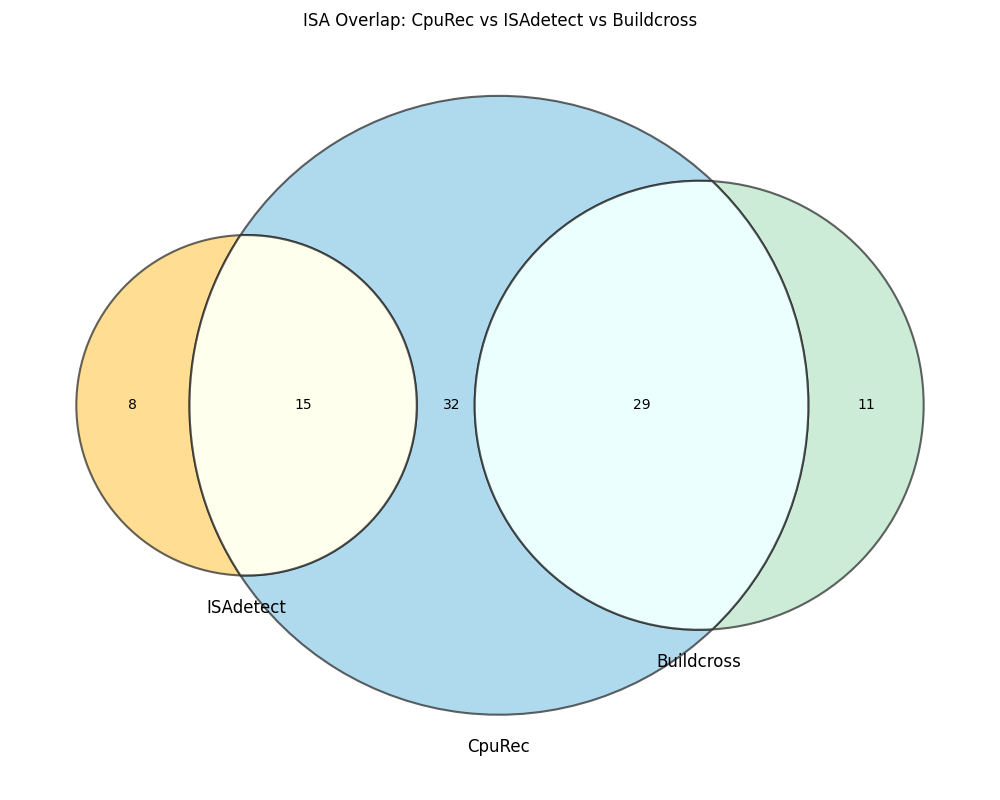
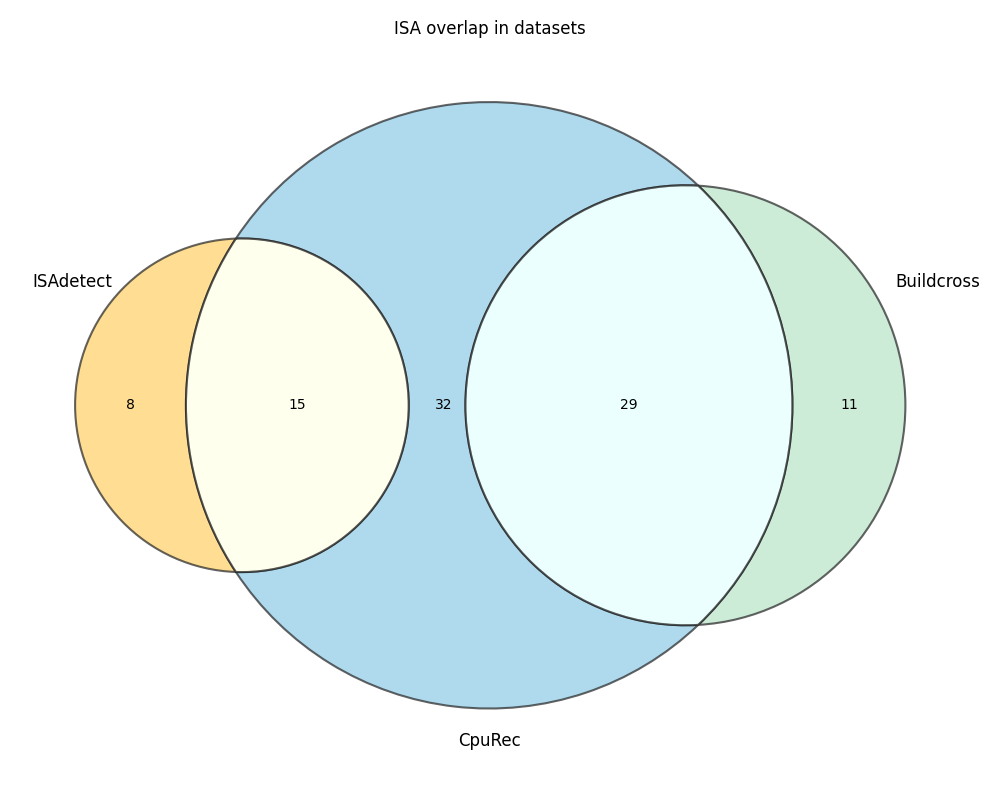
Improve dataset venn diagram

diff --git a/masterproject/code/src/analysis/dataset-isa-overlap.py b/masterproject/code/src/analysis/dataset-isa-overlap.py
@@ -1,6 +1,6 @@
 import pandas as pd
 import matplotlib.pyplot as plt
-from matplotlib_venn import venn2, venn3
+from matplotlib_venn import venn3
 
 
 # Load the architecture columns from both CSVs
@@ -45,17 +45,19 @@ def plot_venn():
         set_colors=("#8ecae6", "#ffd166", "#b7e4c7"),  # blue, yellow, green
         alpha=0.7,
     )
-    # Set intersection color for all three
-    if v.get_patch_by_id("111"):
-        v.get_patch_by_id("111").set_color("#f7b7a3")  # pastel coral
-        v.get_patch_by_id("111").set_alpha(0.8)
+
     # Add edge colors for clarity
     for patch in ["100", "010", "001", "110", "101", "011", "111"]:
         p = v.get_patch_by_id(patch)
         if p:
             p.set_edgecolor("#222")
             p.set_linewidth(1.5)
-    plt.title("ISA Overlap: CpuRec vs ISAdetect vs Buildcross")
+
+    # Move set labels outward for better visibility
+    v.get_label_by_id("B").set_position((-0.72, 0.22))
+    v.get_label_by_id("C").set_position((0.72, 0.22))
+
+    plt.title("ISA overlap in datasets")
     plt.tight_layout()
     plt.savefig("output/dataset-isa-overlap.png")
     plt.show()
